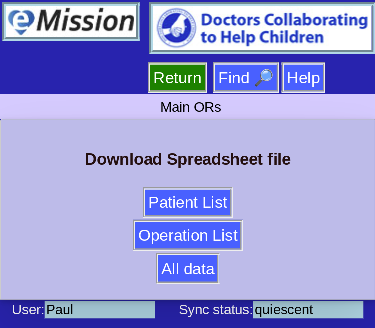
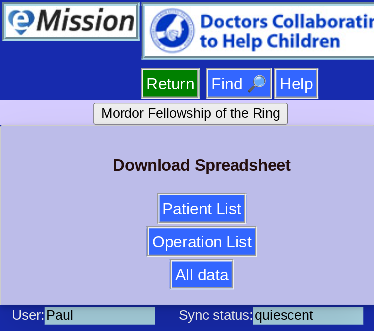
Fix user membership to exclude non-user records Update remote database input help to show fixup

diff --git a/js/adminapp.js b/js/adminapp.js
@@ -235,6 +235,13 @@ const structDatabase = [
         type: "text",
     },
     {
+        name: "raw",
+        alias: "  process address",
+        hint: "Fix URL with protocol and port",
+        type: "radio",
+        choices: ["fixed","raw"],
+    },
+    {
         name: "database",
         hint: 'Name of patient information database (e.g. "ukraine"',
         type: "text",
@@ -926,7 +933,10 @@ class DatabaseData extends PatientDataRaw {
 
     savePatientData() {
         if ( this.loadDocData()[0] ) {
-            this.doc[0].address=objectRemote.SecureURLparse(this.doc[0].address); // fix up URL
+            if ( this.doc[0].raw=="fixed" ) {
+                this.doc[0].address=objectRemote.SecureURLparse(this.doc[0].address); // fix up URL
+            }
+            delete this.doc[0].raw ;
             Cookie.set ( "remoteCouch", Object.assign({},this.doc[0]) );
         }
         objectPage.reset();
@@ -1722,7 +1732,9 @@ class RemoteDatabaseInput extends Pagelist {
     static dummy_var=this.AddPage(); // add the Pagelist.pages -- class initiatialization block
 
     static subshow(extra="") {
-        objectPatientData = new DatabaseData( Object.assign({},remoteCouch), structDatabase );
+        const doc = Object.assign({},remoteCouch) ;
+        doc.raw = "fixed";
+        objectPatientData = new DatabaseData( doc, structDatabase );
     }
 }
 
@@ -1760,7 +1772,7 @@ class MissionMembers extends Pagelist {
             let rows = [] ;
             objectTable = new MissionMembersTable();
             User.getAllIdDoc()
-            .then( docs => rows = docs.rows )
+            .then( docs => rows = docs.rows.filter( r=> r?.doc?.type == "user" ) )
             .then( _ => objectSecurity.getUsers() )
             .then( sec => rows.forEach( row => row.doc.mission = 
                 ["members","admins"]

diff --git a/download.html b/download.html
@@ -37,7 +37,7 @@
             <!-- body: DownloadCSV -->
             <div class="DownloadCSV pageOverlay">
                 <div id="DownloadCSVContent" class="buttonmenu" >
-                    <h3>Download Spreadsheet file</h3>
+                    <h3>Download Spreadsheet</h3>
                     <button type="button" class="divbutton" onclick="CSV.patients()">Patient List</button>
                     <button type="button" class="divbutton" onclick="CSV.operations()">Operation List</button>
                     <button type="button" class="divbutton" onclick="CSV.all()">All data</button>
@@ -46,7 +46,7 @@
             <!-- body: DownloadPPTX -->
             <div class="DownloadPPTX pageOverlay">
                 <div id="DownloadPPTXContent" class="buttonmenu" >
-                    <h3>Download Presentation file</h3>
+                    <h3>Download Presentation</h3>
                     <label>
                         Include Operations
                         <input type="checkbox" id="opsPPTX" checked>

diff --git a/style/base.css b/style/base.css
@@ -314,8 +314,12 @@ legend {
   background: #bcbce9 ;
   justify-content: center;
   align-items: center;
-  flex-direction: column ; 
+  flex-direction: column ;
+  width: 100%;
   padding: 1em;
+}
+.PatientDataContent, .dataFieldset {
+    width: 100%;
 }
 #DownloadPPTXContent {
   font-size: 20px;

diff --git a/js/app.js b/js/app.js
@@ -2140,7 +2140,7 @@ class Help extends Pagelist {
 
     static subshow(extra="") {
         window.open( new URL(`/book/index.html`,location.href).toString(), '_blank' );
-//        objectPage.show("MainMenu");
+        objectPage.show("back");
     }
 }
 

diff --git a/src/contributing.md b/src/contributing.md
@@ -1,0 +1,34 @@
+# Contributing code
+
+As an open source collaborative program, **eMission** welcomes fixes and new features.
+
+Here is a brief guide on contributing:
+
+## Code style
+  * Pure *javascript*
+    * ES2016+ style
+    * *Promise* rather than *await* or *callback* preferred
+    * Runs in browser
+  * iPhone, Android and laptop compatible
+  * No external dependencies (libraries included in **eMission** download)
+  * Open source (MIT or GPL or similar)
+
+
+## Presentation style
+  * HTML and CSS
+  * Optimized for mobile
+
+## Documentation
+  * Written in Markdown
+  * Uses [mdbook](https://rust-lang.github.io/mdBook/) to render HTML
+* Links
+  * Links to **eMission** implementation welcome, including a description of your mission
+  * Video and instruction links also welcome
+  
+## Github
+
+* [github](https://github.com/alfille/eMission) is the primary repository
+  * Fork, modify and push changes
+  * Use the *Issues* forum
+
+ 

diff --git a/src/RemoteDatabaseInput.md b/src/RemoteDatabaseInput.md
@@ -14,6 +14,20 @@ You can **Edit** your information:
 
 and press **Save Changes**
 
+## Process Address
+
+The *Remote database server address* has some formal parameters that can be placed automatically
+
+![](images/RemoteDatabaseInput0.png)
+
+|Choice|Default|Action|  
+|--|--|--|
+|fixed|yes|Add https(secure) and port 6984 automatically|
+|raw|no|use literal address entry|
+
+*raw* can be useful for some cloud services like *IBM Cloudant*
+
+
 ## Print
 
 Alternatively, you can **Print Your Credentials**

diff --git a/src/SUMMARY.md b/src/SUMMARY.md
@@ -59,6 +59,7 @@
   - [Support and Maintenance](Support.md)
   - [Server configuration](couchdb_config.md)
 - [For Developers](architecture.md)
+  - [Contributing code](contributing.md)
   - [Caching](caching.md)
   - [Database Schema](schema.md)
   - [Task split](split.md)
